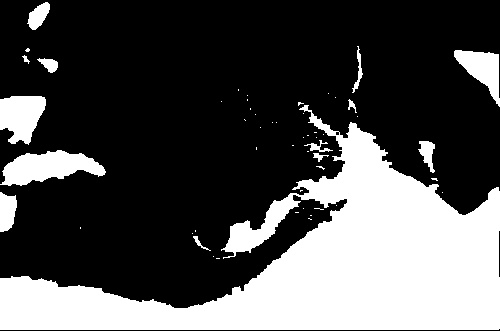
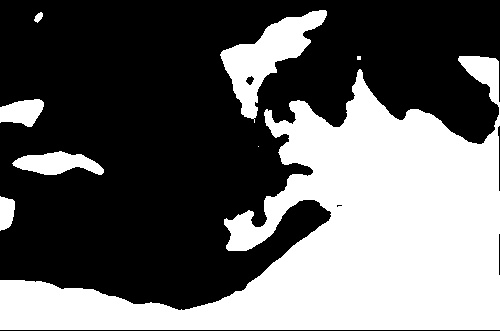
removed deprected functions, fixed possible data race conditions

diff --git a/ppfis.h b/ppfis.h
@@ -95,12 +95,11 @@ namespace ppfis
     {
     private:
         constexpr static int m_mask_maximum_thread = 8;
+        int m_thread_count = 0;
 
         uchar** m_image_ptr = nullptr;
         int m_image_width = -1, m_image_height = -1;
 
-        static void operate_per_pixel_thread(pixel* image, int image_width, void (*per_pixel_func)(pixel&), int left, int right, int top, int bottom);
-        static void operate_per_pixel_thread(mask* m, pixel* new_image, void (*per_pixel_func)(pixels&, pixel&), int left, int right, int top, int bottom);
         template <typename ... parameters>
         static void operate_per_pixel_thread(pixel* image, int image_width, void (*per_pixel_func)(pixel&, parameters ... params), int left, int right, int top, int bottom, parameters ... params);
         template <typename ... parameters>
@@ -114,12 +113,13 @@ namespace ppfis
         int border_right = 0;
         int border_bottom = 0;
 
+        inline int get_thread_count(void) { return m_thread_count; }
+        inline void set_thread_count(int thread_count) { m_thread_count = std::max(0, std::min(m_mask_maximum_thread, thread_count));}
+
         mask(uchar** image_ptr, int image_width, int image_height);
         void set_border(int left, int top, int right, int bottom);
         void set_relative_border(int d_left, int d_top, int d_right, int d_bottom);
 
-        bool operate(void (*per_pixel_func)(pixel& current_pixel)); 
-        bool operate(void (*per_pixel_func)(pixels& original_pixel, pixel& output_pixel));
         template <typename ... parameters>
         bool operate(void (*per_pixel_func)(pixel& current_pixel, parameters ... params), parameters ... params);
         template <typename ... parameters>
@@ -167,26 +167,6 @@ namespace ppfis
         inline row_pixels operator[](int relative_row) const { return row_pixels(m_current_row + relative_row, m_current_column, m_mask_ptr); }
     };
 
-    inline void mask::operate_per_pixel_thread(pixel* image, int image_width, void (*per_pixel_func)(pixel&), int left, int right, int top, int bottom)
-    {
-        for (int c = top; c < bottom; ++c)
-            for (int r = left; r < right; ++r)
-                per_pixel_func(image[c * image_width + r]);
-    }
-
-    inline void mask::operate_per_pixel_thread(mask* m, pixel* new_image, void (*per_pixel_func)(pixels&, pixel&), int left, int right, int top, int bottom)
-    {
-        pixels op;
-        op.m_mask_ptr = m;
-        for (int c = top; c < bottom; ++c)
-            for (int r = left; r < right; ++r)
-            {
-                op.m_current_column = c;
-                op.m_current_row = r;
-                per_pixel_func(op, new_image[c * m->m_image_width + r]);
-            }
-    }
-
     template <typename ... parameters>
     inline void mask::operate_per_pixel_thread(pixel* image, int image_width, void (*per_pixel_func)(pixel&, parameters ...), int left, int right, int top, int bottom, parameters ... params)
     {
@@ -233,66 +213,6 @@ namespace ppfis
         border_bottom = m_image_height - d_bottom;
     }
 
-    inline bool mask::operate(void (*per_pixel_func)(pixel& current_pixel))
-    {
-        if (!m_image_ptr || !per_pixel_func) return false;
-
-        // map ranges due to borders
-        int right = std::min(std::max(border_left, border_right), m_image_width);
-        int left = std::max(std::min(border_left, right), 0);
-        int bottom = std::min(std::max(border_top, border_bottom), m_image_height);
-        int top = std::max(std::min(border_top, bottom), 0);
-
-        simple_thread<m_mask_maximum_thread, pixel*, int, void (*)(pixel&), int, int, int, int> t(mask::operate_per_pixel_thread);
-
-        pixel* image = reinterpret_cast<pixel*>(*m_image_ptr);
-
-        // estimate thread count
-        int concurrent_operation_count = bottom - top > m_mask_maximum_thread + 1 ? m_mask_maximum_thread + 1 : 1;
-        int height_per_thread = (bottom - top) / concurrent_operation_count;
-
-        // run threads
-        for (int i = 0; i < concurrent_operation_count - 1; ++i)
-            t.run(image, m_image_width, per_pixel_func, left, right, top + height_per_thread * i, top + height_per_thread * (i + 1));
-        operate_per_pixel_thread(image, m_image_width, per_pixel_func, left, right, top + height_per_thread * (concurrent_operation_count - 1), bottom);
-
-        t.wait();
-
-        return true;
-    }
-
-    inline bool mask::operate(void (*per_pixel_func)(pixels& original_pixel, pixel& output_pixel))
-    {
-        if (!m_image_ptr || !per_pixel_func) return false;
-
-        // create new image
-        pixel* new_image = new pixel[m_image_width * m_image_height];
-        memcpy(new_image, *m_image_ptr, m_image_width * m_image_height * 3);
-
-        // map ranges due to borders
-        int right = std::min(std::max(border_left, border_right), m_image_width);
-        int left = std::max(std::min(border_left, right), 0);
-        int bottom = std::min(std::max(border_top, border_bottom), m_image_height);
-        int top = std::max(std::min(border_top, bottom), 0);
-
-        simple_thread<m_mask_maximum_thread, mask*, pixel*, void (*)(pixels&, pixel&), int, int, int, int> t(mask::operate_per_pixel_thread);
-
-        // estimate thread count
-        int concurrent_operation_count = bottom - top > m_mask_maximum_thread + 1 ? m_mask_maximum_thread + 1 : 1;
-        int height_per_thread = (bottom - top) / concurrent_operation_count;
-
-        // run threads
-        for (int i = 0; i < concurrent_operation_count - 1; ++i)
-            t.run(this, new_image, per_pixel_func, left, right, top + height_per_thread * i, top + height_per_thread * (i + 1));
-        operate_per_pixel_thread(this, new_image, per_pixel_func, left, right, top + height_per_thread * (concurrent_operation_count - 1), bottom);
-        t.wait();
-
-        // copy result
-        memcpy(*m_image_ptr, new_image, m_image_width * m_image_height * 3);
-        delete[] new_image;
-        return true;
-    }
-
     template <typename ... parameters>
     inline bool mask::operate(void (*per_pixel_func)(pixel& current_pixel, parameters ... params), parameters ... params)
     {
@@ -309,7 +229,7 @@ namespace ppfis
         pixel* image = reinterpret_cast<pixel*>(*m_image_ptr);
 
         // estimate thread count
-        int concurrent_operation_count = bottom - top > m_mask_maximum_thread + 1 ? m_mask_maximum_thread + 1 : 1;
+        int concurrent_operation_count = bottom - top > m_thread_count + 1 ? m_thread_count + 1 : 1;
         int height_per_thread = (bottom - top) / concurrent_operation_count;
 
         // run threads
@@ -339,7 +259,7 @@ namespace ppfis
         simple_thread<m_mask_maximum_thread, mask*, pixel*, void (*)(pixels&, pixel&, parameters...), int, int, int, int, parameters ... > t(mask::operate_per_pixel_thread);
 
         // estimate thread count
-        int concurrent_operation_count = bottom - top > m_mask_maximum_thread + 1 ? m_mask_maximum_thread + 1 : 1;
+        int concurrent_operation_count = bottom - top > m_thread_count + 1 ? m_thread_count + 1 : 1;
         int height_per_thread = (bottom - top) / concurrent_operation_count;
 
         // run threads
@@ -357,11 +277,13 @@ namespace ppfis
 
     inline void grayscale(mask& m)
     {
-        m.operate([](pixel& p)
+        void (*func)(pixel& p) = [](pixel& p)
         {
             uchar gray = uchar((int(p.r) + int(p.g) + int(p.b))/3);
             p = gray;
-        });
+        };
+
+        m.operate(func);
     }
 
     // threshold
@@ -384,13 +306,17 @@ namespace ppfis
     {
         // make it publicly available?
 
+        int prev_thread_count = m.get_thread_count();
+        m.set_thread_count(0); // avoid data race problem 
+
         constexpr void (*func)(pixel&, unsigned*) = [](pixel& p, unsigned* hist)
         {
-            // atomicity warning!
             hist[p.r]++; 
         };
 
         m.operate(func, hist);
+
+        m.set_thread_count(prev_thread_count);
     }
 
     inline int compute_otsu(mask& m, unsigned *hist)
@@ -454,7 +380,7 @@ namespace ppfis
     // edge detection 
     inline void sobel_operator(mask& m)
     {
-        m.operate([](pixels& op, pixel& np)
+        void (*func)(pixels& op, pixel& np) = [](pixels& op, pixel& np)
         {
             constexpr int filter[] = {1, 2, 1};
 
@@ -469,12 +395,14 @@ namespace ppfis
                     y += filter[col+1] * row * op.at(row, col).r;
             
             np = sqrt(x * x + y * y);
-        });
+        };
+
+        m.operate(func);
     }
 
     inline void laplacian(mask& m)
     {
-        m.operate([](pixels& op, pixel& np)
+        void (*func)(pixels& op, pixel& np) = [](pixels& op, pixel& np)
         {
             constexpr int filter[3][3] = {{  0,  1,  0},
                                           {  1, -4,  1},
@@ -494,13 +422,15 @@ namespace ppfis
             b = std::max(0,std::min(255, b));
 
             np = pixel(b,g,r);
-        });
+        };
+
+        m.operate(func);
     }
 
     // filtering
     inline void sharpen_filter(mask& m)
     {
-        m.operate([](pixels& op, pixel& np)
+        void (*func)(pixels& op, pixel& np) = [](pixels& op, pixel& np)
         {
             constexpr int filter[3][3] = {{  0, -1,  0},
                                           { -1,  5, -1},
@@ -520,7 +450,9 @@ namespace ppfis
             b = std::max(0,std::min(255, b));
 
             np = pixel(b,g,r);
-        });
+        };
+
+        m.operate(func);
     }
 
     inline void mean_filter(mask& m, int k)
@@ -580,7 +512,7 @@ namespace ppfis
     // morphological
     inline void erosion(mask& m)
     {
-        m.operate([](pixels& op, pixel& np)
+        void (*func)(pixels& op, pixel& np) = [](pixels& op, pixel& np)
         {
             constexpr int filter[3][3] = {{  1,  1,  1},
                                           {  1,  1,  1},
@@ -595,12 +527,14 @@ namespace ppfis
                             value = 0;
                 }
             np = value;
-        });
+        };
+
+        m.operate(func);
     }
 
     inline void dilation(mask& m)
     {
-        m.operate([](pixels& op, pixel& np)
+        void (*func)(pixels& op, pixel& np) = [](pixels& op, pixel& np)
         {
             constexpr int filter[3][3] = {{  1,  1,  1},
                                           {  1,  1,  1},
@@ -615,7 +549,9 @@ namespace ppfis
                             value = 255;
                 }
             np = value;
-        });
+        };
+
+        m.operate(func);
     }
 
     inline void opening(mask& m)

diff --git a/main.cpp b/main.cpp
@@ -46,8 +46,9 @@ int main(int argc, char** argv)
 void built_in_function_examples(mask& m)
 {
     m.set_relative_border(0,0,0,0);
-    threshold(m, 184);
-    closing(m);
+    m.set_thread_count(4);
+    median_filter(m, 10);
+    otsu_threshold(m);
 }
 
 void simple_thread_exmaples()
